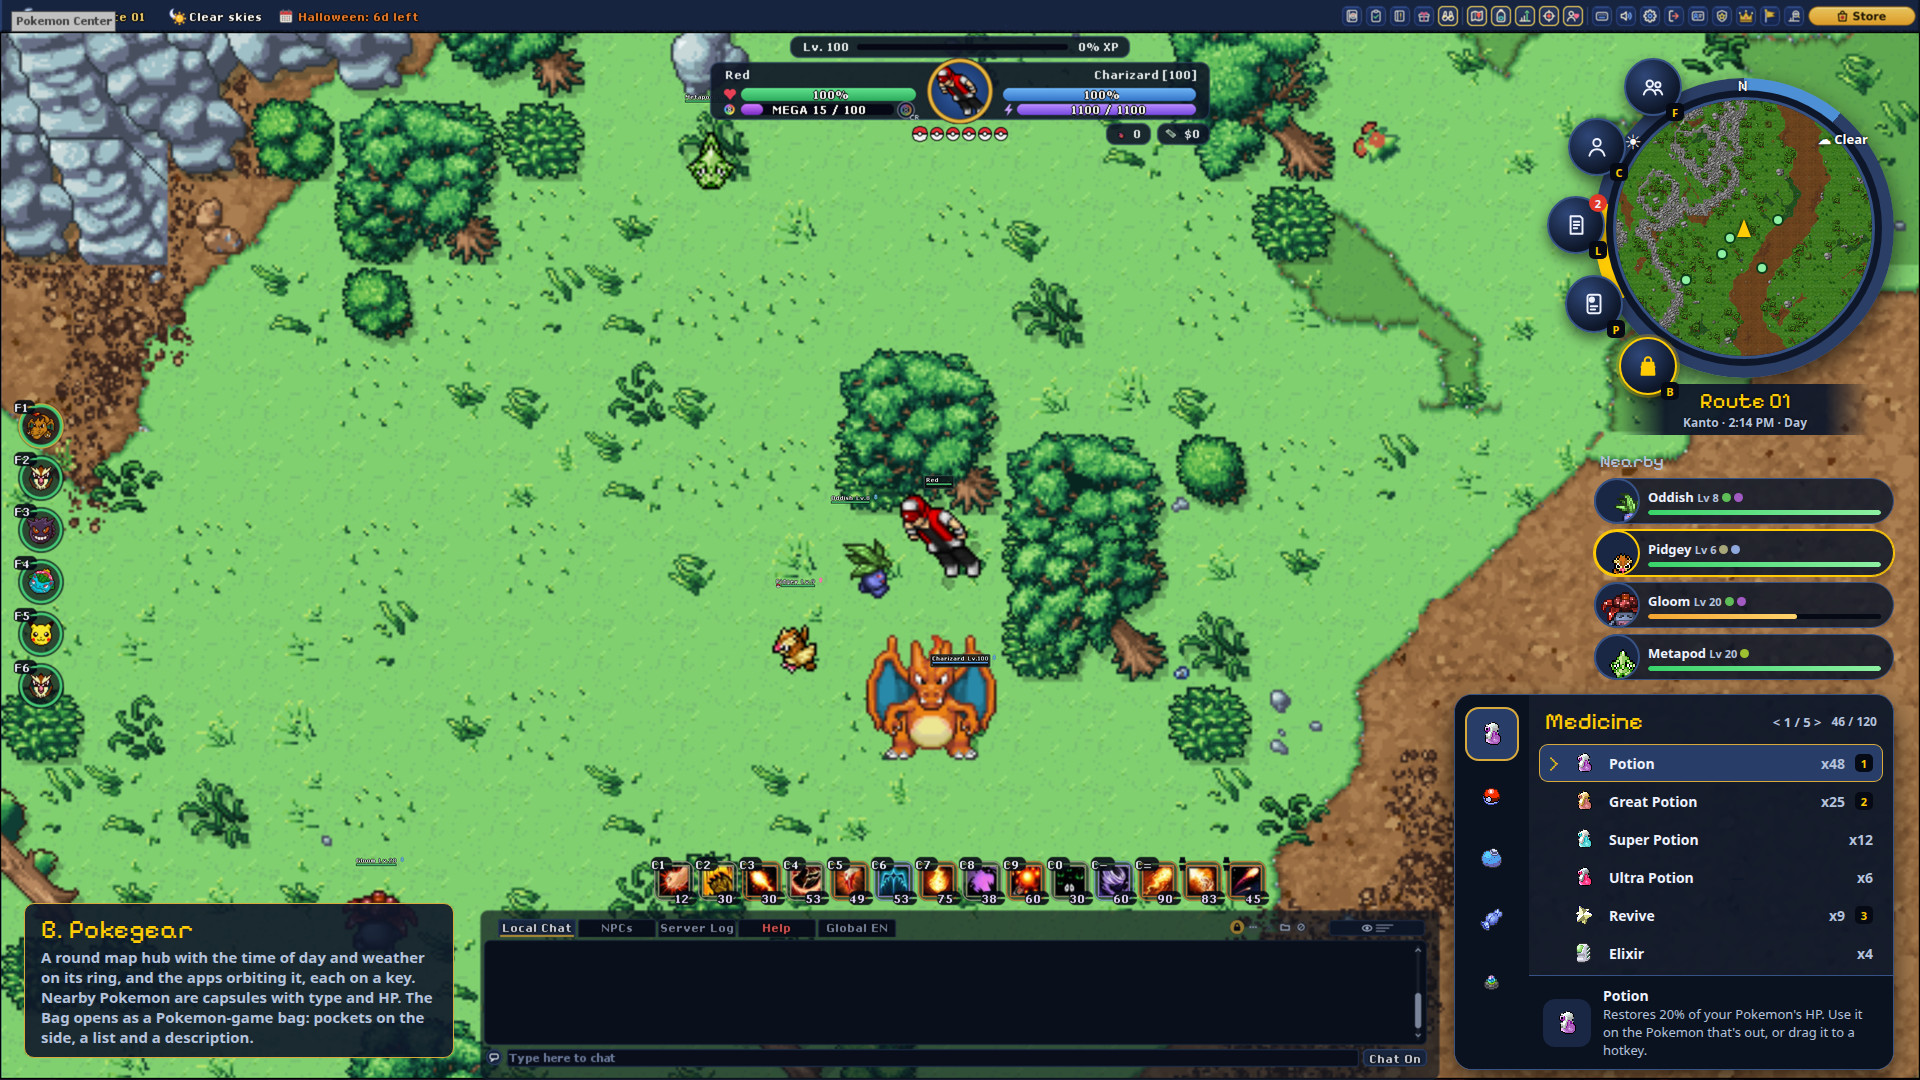
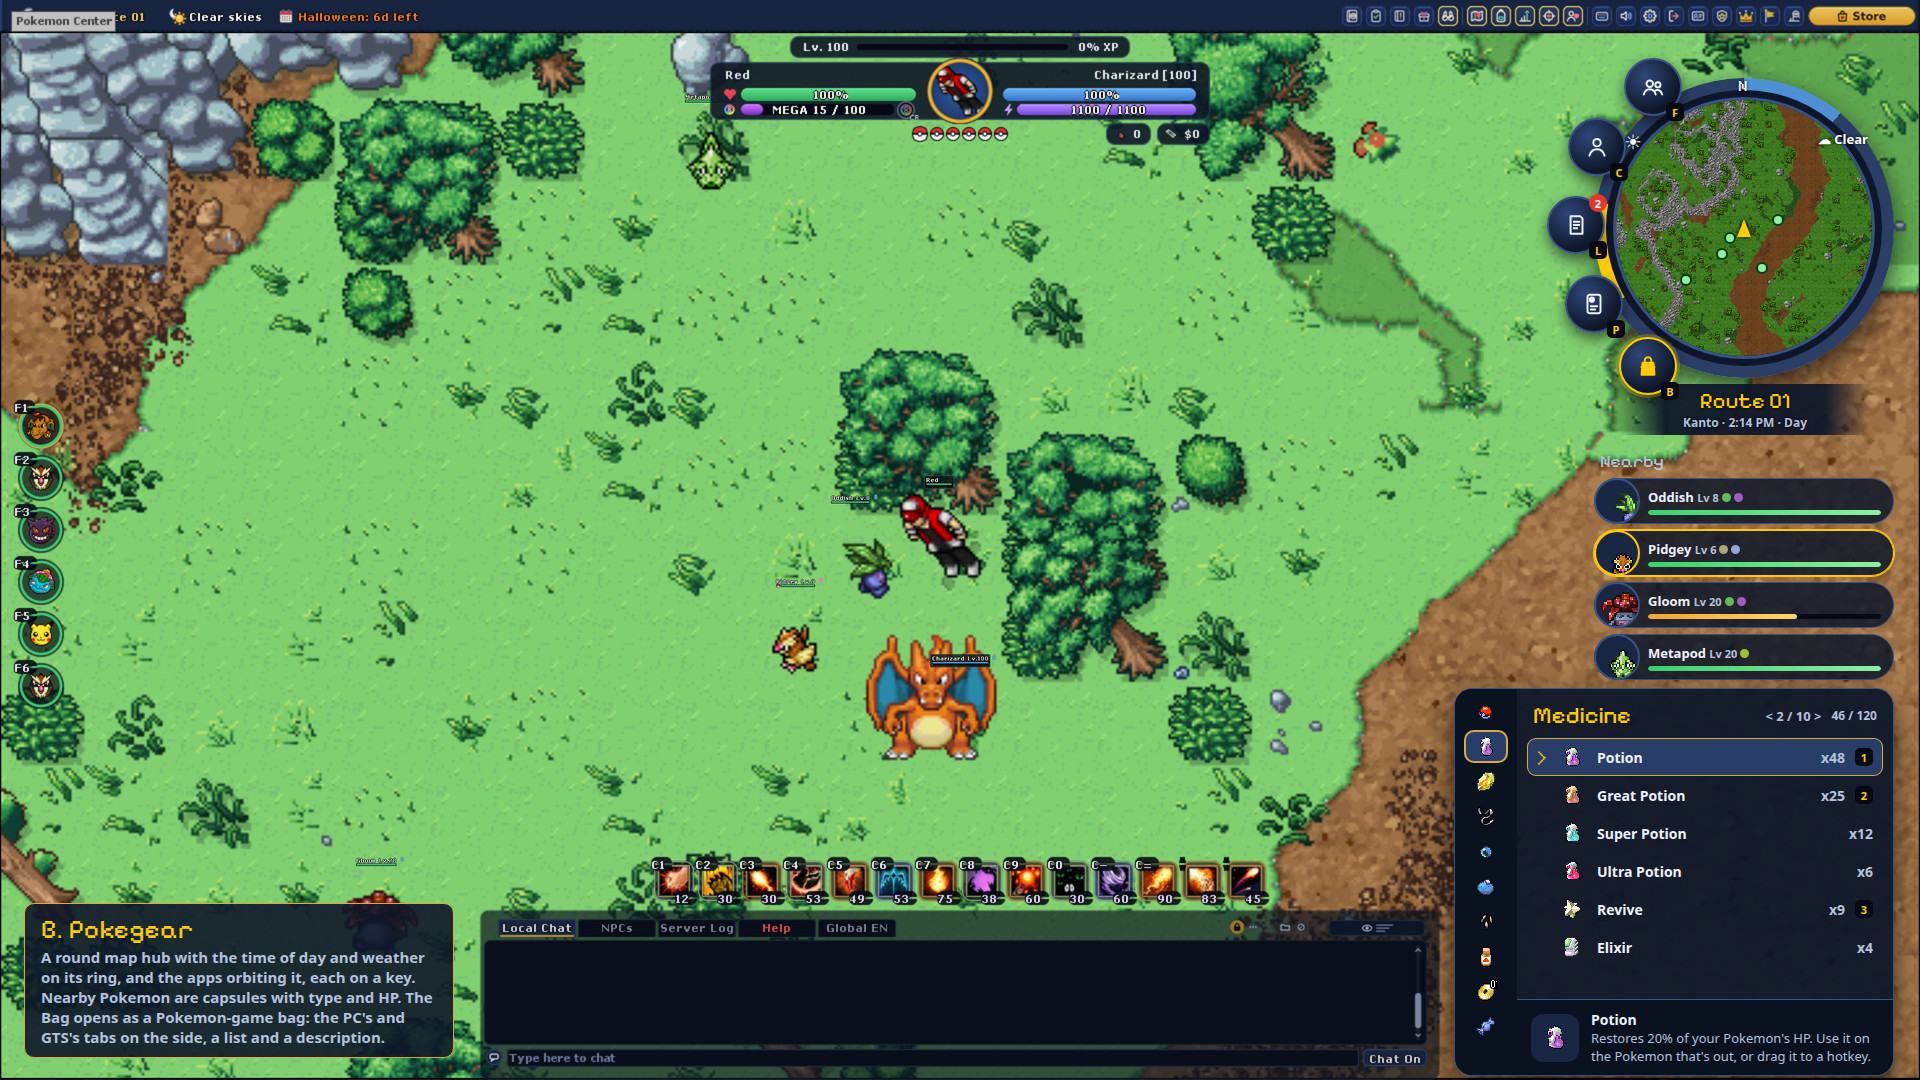
Side panel concepts: the Bag uses the PC's and GTS's tabs; today's windows stay as the Classic layout

diff --git a/docs/concepts/side-panel/README.md b/docs/concepts/side-panel/README.md
@@ -66,14 +66,18 @@ Coordinates move to a tooltip on the map (or the staff view). Level and experien
 
 ## How it would be built
 
-- **Bag.** Items stay in the server's backpacks; the pockets are only a different view of them.
-  - The client sorts what is in the bag and the bags inside it into pockets: Medicine, Poke Balls,
-    Berries, Items and Key Items.
+- **Classic and new.** Today's side windows stay as a **Classic** layout in Options. The new one is
+  the default and is built on top of the same modules, so both keep working.
+- **Bag.** Items stay in the server's backpacks; the tabs are only a different view of them.
+  - The Bag uses the same tabs as the PC stash and the GTS, in the same order. All three read the
+    server's `GTS.CATEGORIES`: Poke Balls, Medicine, Evolution Stones, Held Items, Mega Stones,
+    Berries, Berry Seeds, Vitamins, Technical Machines and Other, plus All.
   - It uses an item by its id (`g_game.useInventoryItem`, the call the hotkeys use), so no backpack
     has to be shown.
   - What it can't open locally (bags inside bags) comes from the server on an extended opcode, the
     way the PC and the GTS already do.
-  - Pockets come from a small table by item id, like `mart_items.lua` in the Poke Mart.
+  - The server sends the category list with the bag, so a new category shows up in all three windows
+    at once.
 - **Map.** The same minimap widget, with a round or rounded mask and new buttons, then the Pokepedia
   map behind a click. The real map pictures already exist (`scripts/mapper/render_pokepedia.py`).
 - **Apps** reuse windows that are already built: the Trainer Card, the Pokedex, the Quest log,
@@ -88,4 +92,5 @@ Coordinates move to a tooltip on the map (or the staff view). Level and experien
 1. Which direction, or which mix. For example: B's ring map and Nearby, with C's drawers for the Bag.
 2. Bag as a list (A, B) or a tile grid (C).
 3. Whether Nearby shows only wild Pokemon, or trainers and NPCs too.
-4. Whether to keep a way back to the old windows for players who want them.
+4. Whether items like the Mega Ring, rods, the Pokedex and the Badge Case get a Key Items tab.
+   Today they fall under Other in the PC and the GTS too.
